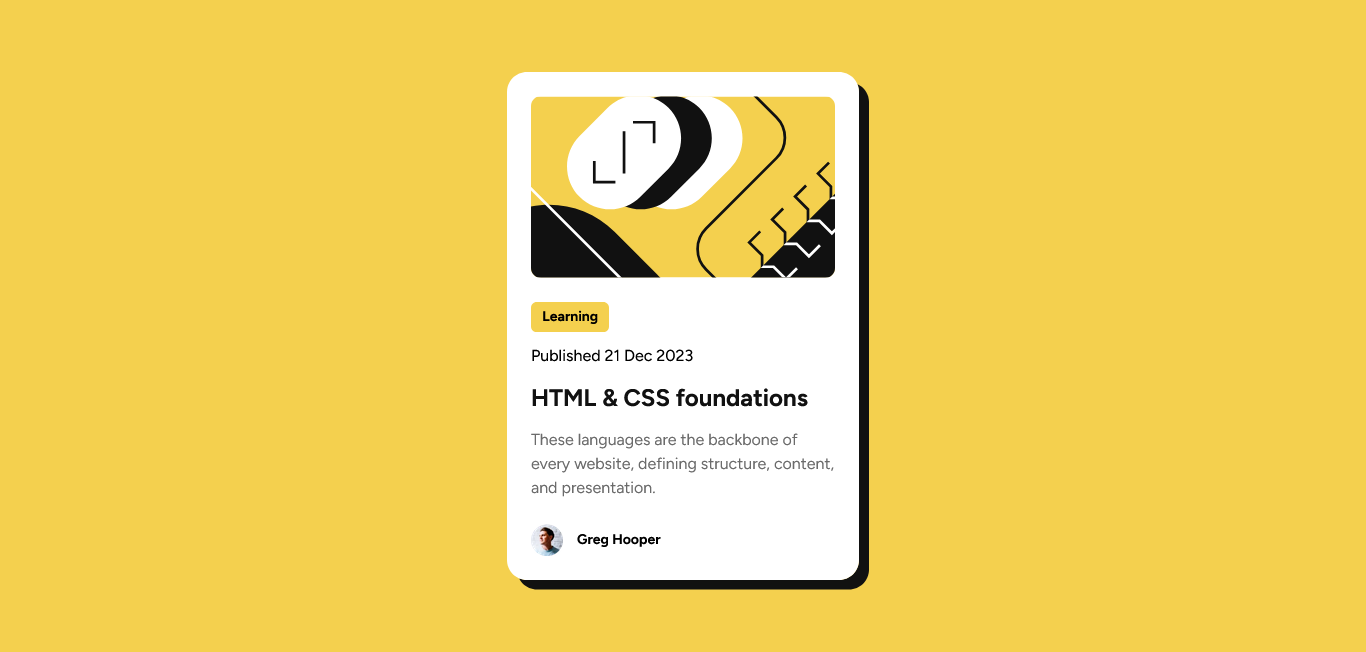
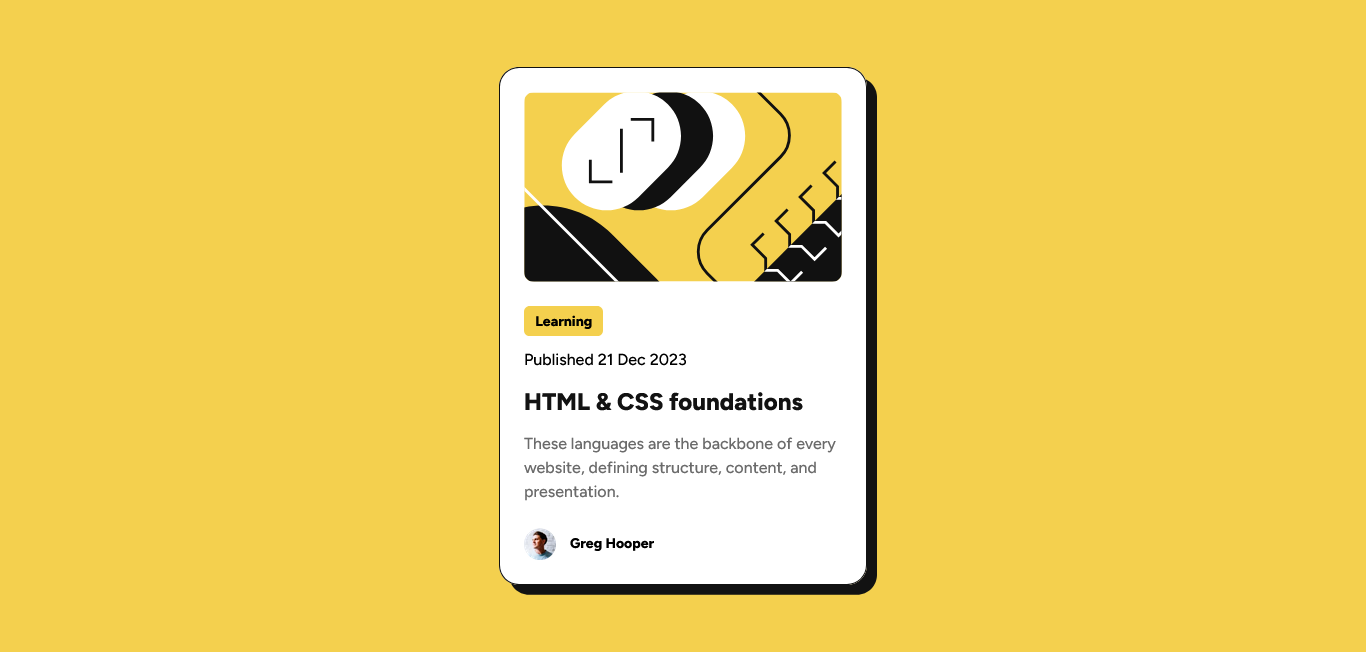
amelioration in the codebase

Changed region(s): [[0.3382, 0.092, 0.6457, 0.9202], [0.4919, 0.3374, 0.5227, 0.3681]]

diff --git a/style.css b/style.css
@@ -1,22 +1,93 @@
-@import url(reset.css);
-
 @font-face {
     font-family: "Figtree";
-    src: url(assets/fonts/Figtree-VariableFont_wght.ttf);
+    src: url(assets/fonts/Figtree-VariableFont_wght.ttf), format("truetype");
+}
+
+/* Box sizing rules */
+*,
+*::before,
+*::after {
+    box-sizing: border-box;
+}
+
+/* Remove default margin */
+body,
+h1,
+h2,
+h3,
+h4,
+p,
+figure,
+blockquote,
+dl,
+dd {
+    margin: 0;
+}
+
+/* Remove list styles on ul, ol elements with a list role, which suggests default styling will be removed */
+ul[role="list"],
+ol[role="list"] {
+    list-style: none;
+}
+
+/* Set core root defaults */
+html:focus-within {
+    scroll-behavior: smooth;
+}
+
+/* Set core body defaults */
+body {
+    min-height: 100vh;
+    text-rendering: optimizeSpeed;
+    line-height: 1.5;
+}
+
+/* A elements that don't have a class get default styles */
+a:not([class]) {
+    text-decoration-skip-ink: auto;
+}
+
+/* Make images easier to work with */
+img,
+picture {
+    max-width: 100%;
+    display: block;
+}
+
+/* Inherit fonts for inputs and buttons */
+input,
+button,
+textarea,
+select {
+    font: inherit;
+}
+
+/* Remove all animations, transitions and smooth scroll for people that prefer not to see them */
+@media (prefers-reduced-motion: reduce) {
+    html:focus-within {
+        scroll-behavior: auto;
+    }
+
+    *,
+    *::before,
+    *::after {
+        animation-duration: 0.01ms !important;
+        animation-iteration-count: 1 !important;
+        transition-duration: 0.01ms !important;
+        scroll-behavior: auto !important;
+    }
 }
 
 :root {
-    font-size: 16px;
-
     /* variables for colors */
-    --black: #111111;
     --white: #ffffff;
     --yellow: #f4d04e;
-    --gray: #6b6b6b;
+    --lightgrey: hsl(0, 0%, 42%);
+    --black: hsl(0, 0%, 7%);
 
     /* variables for font-weight */
-    --bold: 900;
-    --medium: 450;
+    --bold: 800;
+    --medium: 500;
 
     /* variables for font-sizes */
     --small: 0.875rem;
@@ -29,18 +100,17 @@ body {
     display: flex;
     align-items: center;
     justify-content: center;
-    min-height: 100vh;
+    flex-direction: column;
     background-color: var(--yellow);
 }
 
-main {
-    width: clamp(350px, 65vw, 22rem);
-    margin: 0 0.5rem;
+.container {
+    margin: 0 1rem;
     position: relative;
     transition: all 0.5s;
 }
 
-main:hover{
+.container:hover {
     transform: translateY(-10px);
 }
 
@@ -50,6 +120,7 @@ main:hover{
     background-color: var(--white);
     border-radius: 20px;
     box-shadow: 10px 10px 0 var(--black);
+    max-width: 23rem;
 }
 
 /* The image section */
@@ -68,7 +139,7 @@ main:hover{
 .content {
     display: flex;
     flex-direction: column;
-    gap: 12px;
+    gap: 0.75rem;
 }
 
 .tag {
@@ -85,8 +156,9 @@ main:hover{
 }
 
 .title {
-    font-size: 1.5rem;
+    font-size: var(--big);
     color: var(--black);
+    font-weight: var(--bold);
 }
 
 .title:hover {
@@ -98,7 +170,7 @@ main:hover{
     color: inherit;
 }
 
-.title a:before{
+.title a:before {
     position: absolute;
     content: "";
     top: 0;
@@ -110,7 +182,8 @@ main:hover{
 
 .details {
     font-size: 1rem;
-    color: var(--gray);
+    color: var(--lightgrey);
+    font-weight: var(--medium);
 }
 
 /* Author section */

diff --git a/index.html b/index.html
@@ -16,25 +16,26 @@
     </head>
     <body>
             <main>
-                <div class="card">
-                    <div class="image">
-                        <img src="assets/images/illustration-article.svg" alt="A cool abstract image composed of white, yellow and black colors, along with a tag sign in the middle as to realate to programming" />       
-                    </div>
-
-                    <div class="content">
-                        <p class="tag">Learning</p>
-                        <p class="date">Published 21 Dec 2023</p>
-                        <h1 class="title"><a href="#">HTML & CSS foundations</a></h1>
-                        <p class="details">
-                            These languages are the backbone of every website,
-                            defining structure, content, and presentation.
-                        </p>
-                    </div>
-                    <div class="author">
-                        <img src="assets/images/image-avatar.webp" alt="Bust image of a light blue shirted young man, slightly smiling and looking a little to the right, posing in front of a light grey colored wall " />
-                        <span><p>Greg Hooper</p></span>
+                <div class="container">
+                    <div class="card">
+                        <div class="image">
+                            <img src="assets/images/illustration-article.svg" alt="" />
+                        </div>
+                        <div class="content">
+                            <p class="tag">Learning</p>
+                            <p class="date">Published 21 Dec 2023</p>
+                            <h2 class="title"><a href="#">HTML & CSS foundations</a><h2/>
+                            <p class="details">
+                                These languages are the backbone of every website,
+                                defining structure, content, and presentation.
+                            </p>
+                        </div>  
+                        <div class="author">
+                            <img src="assets/images/image-avatar.webp" alt="" />
+                            <p>Greg Hooper</p>
+                        </div>
                     </div>
                 </div>
-            </main>       
+            </main>      
     </body>
 </html>

diff --git a/style-guide.md b/style-guide.md
@@ -16,7 +16,7 @@ The designs were created to the following widths:
 - White: hsl(0, 0%, 100%)
 
 - Gray 500: hsl(0, 0%, 42%)
-- Gray 950: hsl(0, 0%, 7%)
+- Gray 950:     
 
 ## Typography
 
